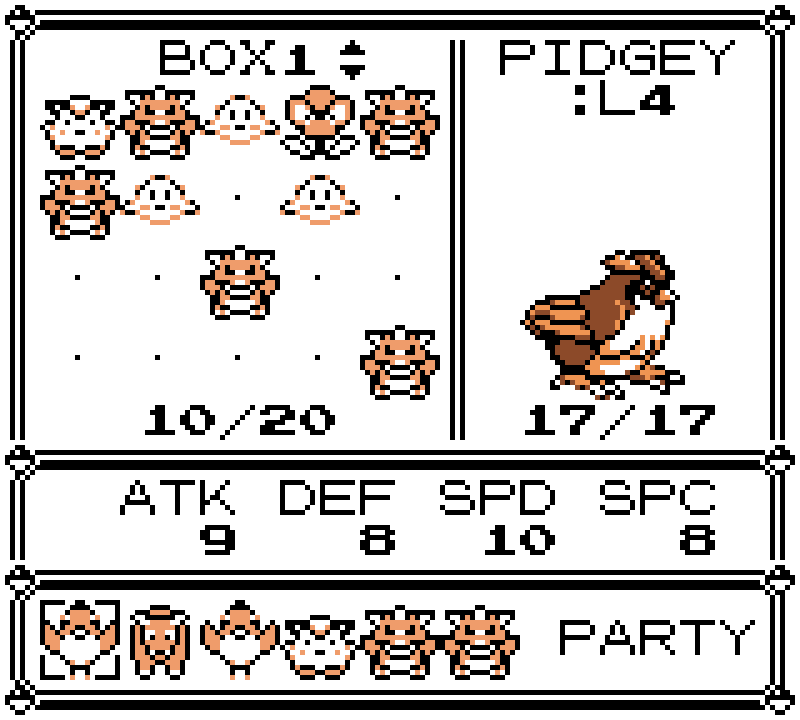
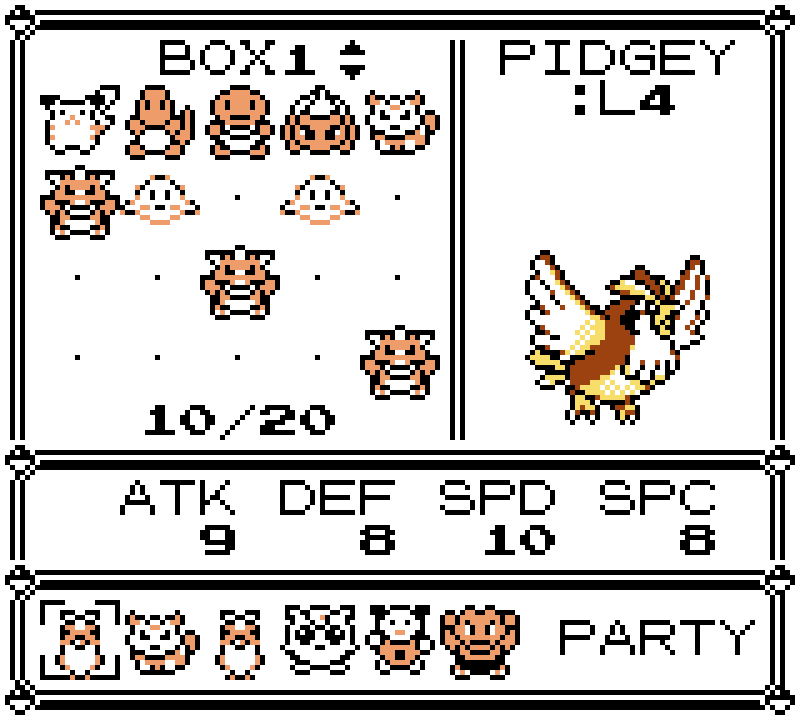
PC HEALS: boxed Pokemon come out whole, and the HP line goes
A Pokemon entering a box is restored to full HP, cured, and has its PP
back, the way Gold already does it (its box_struct has nowhere to keep
HP). On Red, Blue and Yellow this is a rule change, so it is an option,
PC HEALS, default on. Off restores stored HP and the HP line exactly.

Engine:enterBox takes the option's answer and calls Pokemon.heal on
Gen 1; Gold ignores it, since its rule is not optional. A new
Engine:leaveBox heals HP and status on withdraw, so a mon boxed hurt
before the option existed does not come out invisibly wounded.

With the line gone the sprite stands on the freed row, one tile lower
(Layout.SPRITE_BASELINE_NO_HP, still tile-aligned for its SGB zone), so
tall pics clear the name plate by a row instead of none.

Verified on real Red and Crystal boots, extreme fixtures included. The
two suites that assert the old screen pin the option off; the new
behaviour has pc_heals_test and pc_heals_draw_test, plus a sprite-row
case in panel_sprite_test.

README images and both demo GIFs are re-recorded (_v8). The recorder
fixtures no longer seed a paralysed Pikachu, which a box can no longer
hold.

Changed region(s): [[0.0312, 0.825, 0.6562, 0.9472], [0.6562, 0.3361, 0.9062, 0.6111], [0.0312, 0.0917, 0.5625, 0.2444]]

diff --git a/README.md b/README.md
@@ -21,12 +21,12 @@ rearrange your boxes freely. It works on Red, Blue and Yellow, and on Gold,
 Silver and Crystal.
 
 <p align="center">
-  <img src="images/demo_box_v7.gif" width="480" alt="Box view: the 5x4 grid with gaps beside the selected Pokemon's sprite and stats, showing the cursor blink, MOVE and paging"/><br/>
+  <img src="images/demo_box_v8.gif" width="480" alt="Box view: the 5x4 grid with gaps beside the selected Pokemon's sprite and stats, showing the cursor blink, MOVE and paging"/><br/>
   <sub>Box view: free paging, grab-and-place with gaps</sub>
 </p>
 
 <p align="center">
-  <img src="images/demo_deposit_v6.gif" width="480" alt="Deposit view: the party row under the box grid, showing the party cursor and destination paging"/><br/>
+  <img src="images/demo_deposit_v8.gif" width="480" alt="Deposit view: the party row under the box grid, showing the party cursor and destination paging"/><br/>
   <sub>Deposit view: party row and destination paging</sub>
 </p>
 
@@ -40,6 +40,12 @@ Silver and Crystal.
   the grid.
 - **DV display:** the hidden DV numbers on the stats strip. On by default;
   turn it off in OPTIONS → MODS → BILL'S PC PLUS → DV DISPLAY.
+- **PC heals:** a Pokemon that goes into the PC comes out at full HP, cured,
+  with its PP restored, the way the later games work (Gold, Silver and Crystal
+  already did). Because a boxed Pokemon is always whole, the HP line under the
+  sprite is gone and the sprite stands a row lower. On by default; turn it off
+  in OPTIONS → MODS → BILL'S PC PLUS → PC HEALS to get Red, Blue and Yellow's
+  behaviour back, where boxed Pokemon keep the HP they went in with.
 - **Extra boxes:** OPTIONS → MODS → BILL'S PC PLUS → EXTRA BOXES gives you 99
   boxes instead of 12 (Red, Blue, Yellow) or 14 (Gold, Silver, Crystal), each
   holding 20. Off by default. Turning it off never deletes anything: Pokemon
